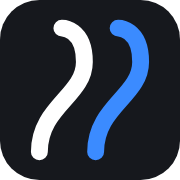
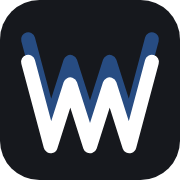
サイトアイコンを轍で描いたWに変更
ナビのロゴ、favicon、タッチアイコン、OGP画像を同じ絵にそろえた。

Claude-Session: https://claude.ai/code/session_019C1HGdURdp8ngjerGXGFbs

diff --git a/src/App.tsx b/src/App.tsx
@@ -8,10 +8,10 @@ import {useCallback, useEffect, useMemo, useState} from 'react';
 import {Theme} from '@astryxdesign/core/theme';
 import {AppShell} from '@astryxdesign/core/AppShell';
 import {TopNav, TopNavHeading, TopNavItem} from '@astryxdesign/core/TopNav';
-import {NavIcon} from '@astryxdesign/core/NavIcon';
 import {Icon} from '@astryxdesign/core/Icon';
 import {IconButton} from '@astryxdesign/core/IconButton';
-import {Moon, Route, Sun} from 'lucide-react';
+import {Moon, Sun} from 'lucide-react';
+import {Mark} from './Mark';
 import {theme} from '#theme';
 import {LANDING_NAV, PAGES, REPORT_NAV, SITE, type PageId} from './site';
 import {useColorMode} from './lib/useColorMode';
@@ -216,7 +216,7 @@ export function App() {
             heading={
               <TopNavHeading
                 heading={SITE.name}
-                logo={<NavIcon icon={<Icon icon={Route} size="sm" />} />}
+                logo={<Mark size={28} />}
                 headingHref={view.kind === 'page' ? '/' : '#'}
               />
             }

diff --git a/src/Mark.tsx b/src/Mark.tsx
@@ -1,0 +1,11 @@
+// The site's mark: a W drawn as a pair of wheel tracks (wadachi). Same drawing as public/favicon.svg.
+
+export function Mark({size = 20}: {size?: number}) {
+  return (
+    <svg width={size} height={size} viewBox="0 0 64 64" aria-hidden="true" style={{display: 'block', borderRadius: size * 0.22}}>
+      <rect width="64" height="64" rx="14" fill="#16181d" />
+      <path d="M10 14l8 30 7-22 7 22 7-22 7 22 8-30" fill="none" stroke="#3b8bff" strokeWidth="5" strokeLinecap="round" strokeLinejoin="round" opacity=".45" />
+      <path d="M10 22l8 30 7-22 7 22 7-22 7 22 8-30" fill="none" stroke="#ffffff" strokeWidth="5" strokeLinecap="round" strokeLinejoin="round" />
+    </svg>
+  );
+}
